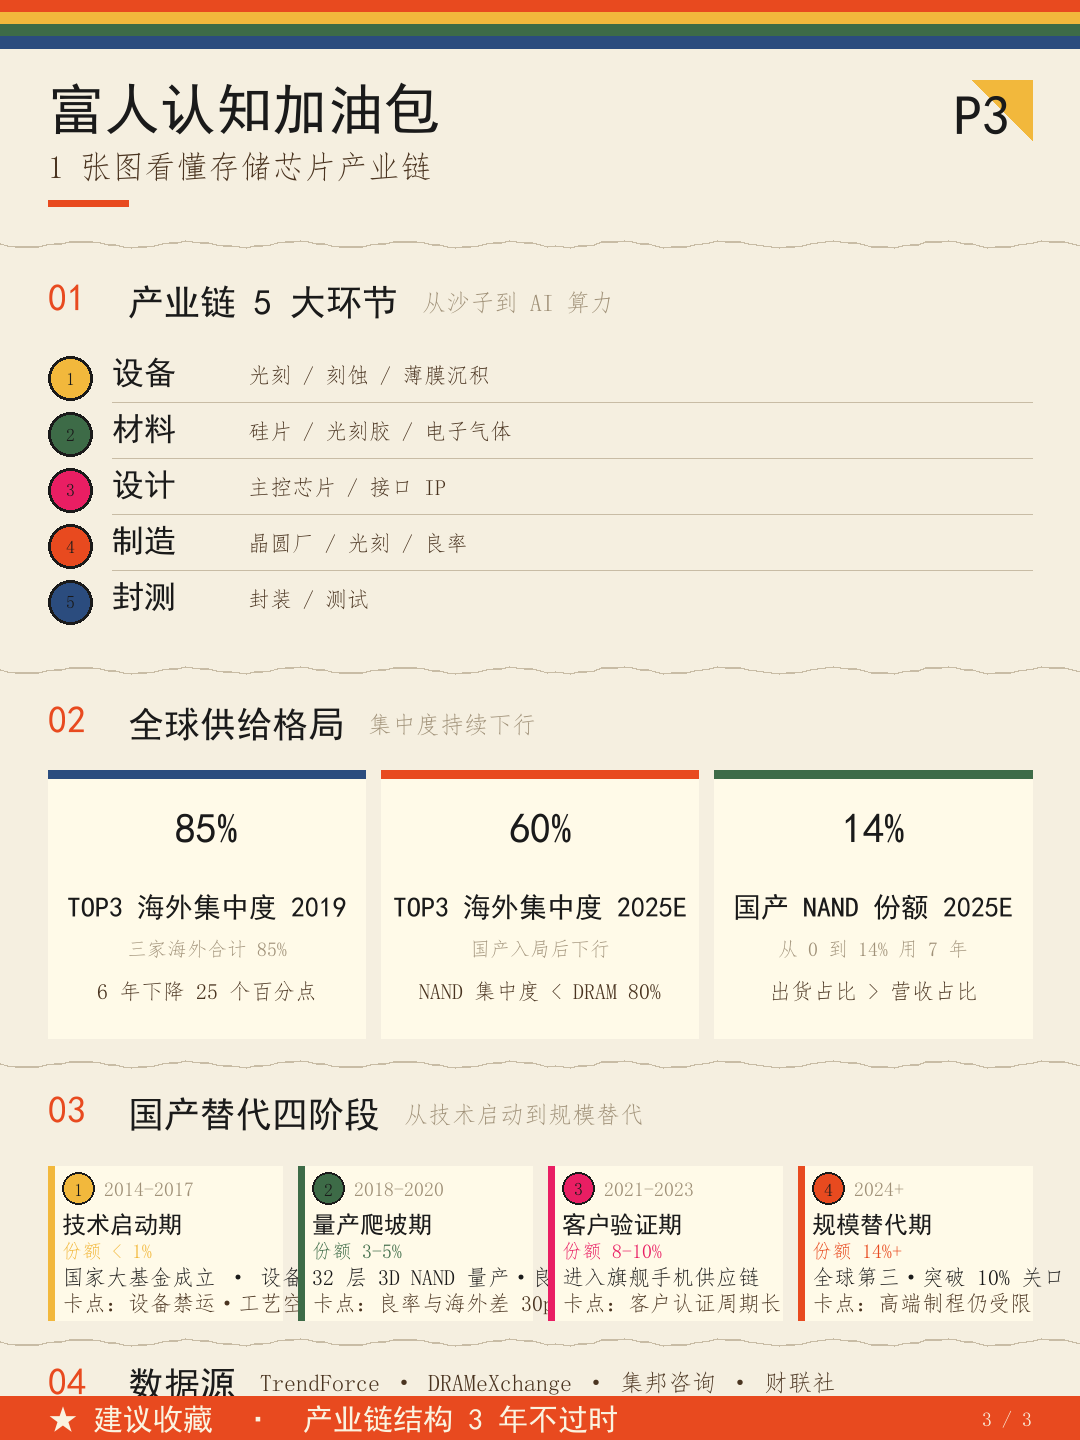
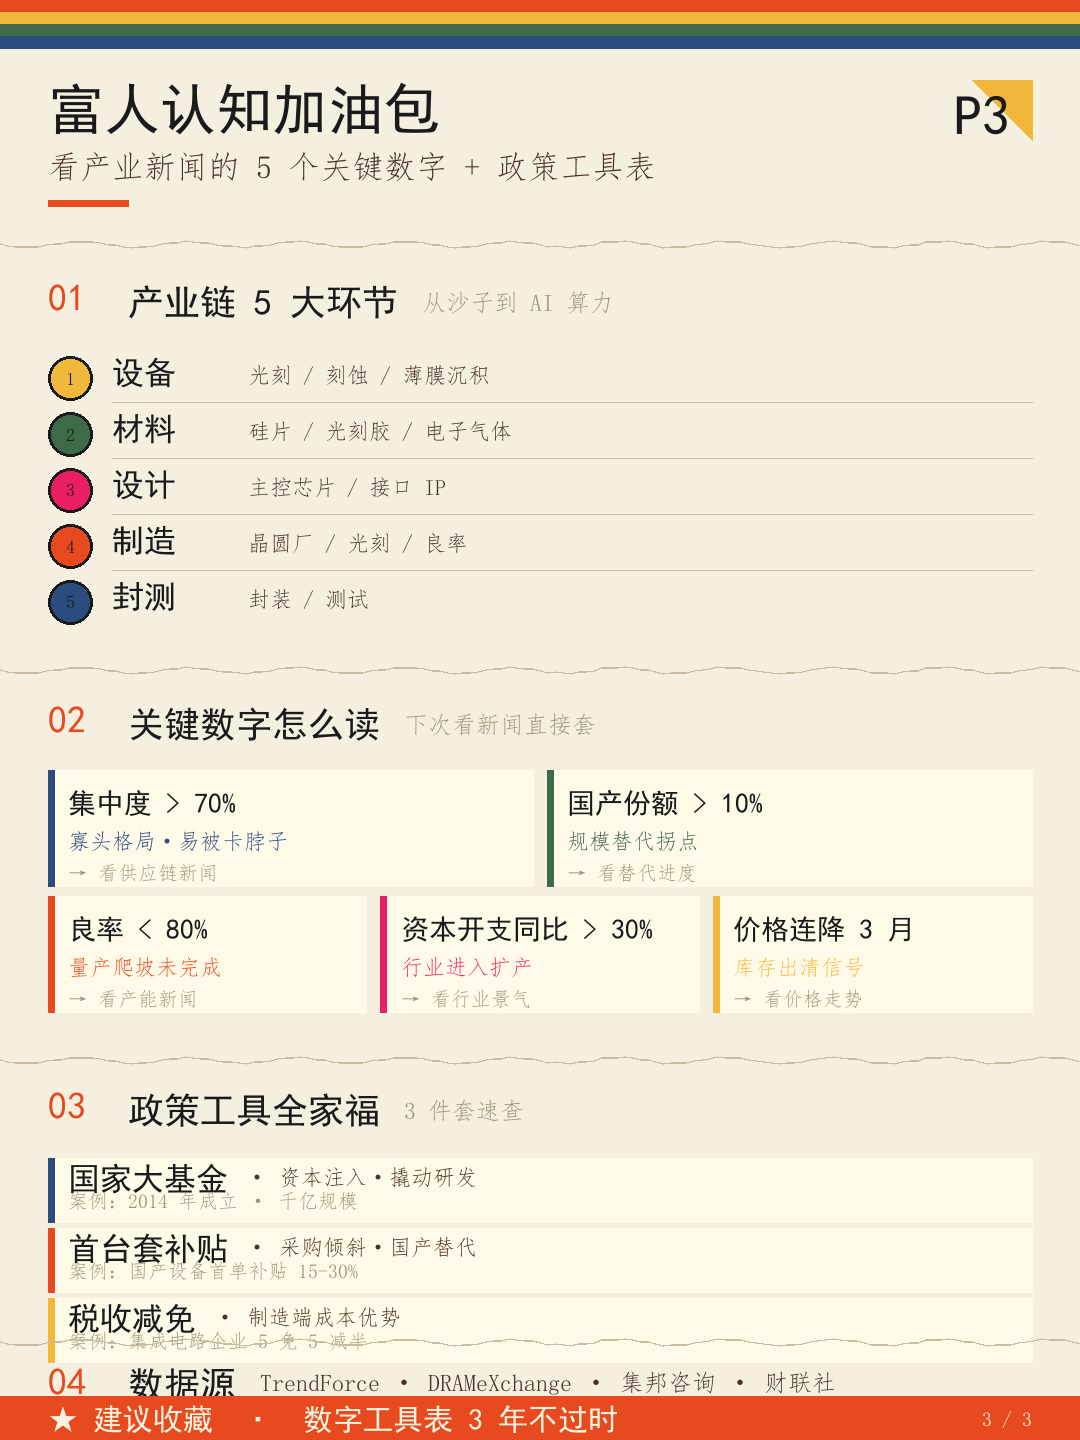
v1.1.2: page3 02/03 换主题→关键数字怎么读+政策工具全家福（工具表型·收藏向）

diff --git a/generate_page3.py b/generate_page3.py
@@ -99,9 +99,9 @@ def make_paper_bg(skeleton_path):
 
 # 顶部标题
 TITLE    = "富人认知加油包"
-SUBTITLE = "1 张图看懂存储芯片产业链"
+SUBTITLE = "看产业新闻的 5 个关键数字 + 政策工具表"
 
-# 01 产业链 5 大环节：编号 + 名称 + 描述 + 筹码颜色
+# 01 产业链/逻辑链 5 大环节（保留·已是干货骨架）
 CHAIN = [
     ("1", "设备", "光刻 / 刻蚀 / 薄膜沉积", YELLOW),
     ("2", "材料", "硅片 / 光刻胶 / 电子气体", GREEN),
@@ -110,37 +110,32 @@ CHAIN = [
     ("5", "封测", "封装 / 测试",             BLUE),
 ]
 
-# 02 全球供给格局：3 张统计卡片（加深：加 详解 + 关键对比）
-# 合规要求：纯市场份额/集中度/应用场景拆分数据，无任何公司名
-SHARE_CARDS = [
-    # (大数字, 单位, 标签, 副说明, 详解, 筹码色)
-    ("85", "%", "TOP3 海外集中度 2019", "三家海外合计 85%",
-     "6 年下降 25 个百分点",          BLUE),
-    ("60", "%", "TOP3 海外集中度 2025E", "国产入局后下行",
-     "NAND 集中度 < DRAM 80%",        RED),
-    ("14", "%", "国产 NAND 份额 2025E", "从 0 到 14% 用 7 年",
-     "出货占比 > 营收占比",           GREEN),
+# 02 关键数字怎么读：5 张速查卡（高于/低于 多少 = 什么信号）
+# 设计：每个数字 = 一句话就能用的判断标尺，下次看到新闻直接套
+# 收藏价值：工具表型·跨场景复用
+SIGNAL_CARDS = [
+    # (判断阈值, 信号含义, 适用场景, 筹码色)
+    ("集中度 > 70%", "寡头格局·易被卡脖子",  "看供应链新闻",     BLUE),
+    ("国产份额 > 10%", "规模替代拐点",        "看替代进度",      GREEN),
+    ("良率 < 80%",   "量产爬坡未完成",        "看产能新闻",       RED),
+    ("资本开支同比 > 30%", "行业进入扩产",   "看行业景气",       PINK),
+    ("价格连降 3 月",  "库存出清信号",        "看价格走势",       YELLOW),
 ]
 
-# 03 国产替代四阶段时间表：每阶段加「国产份额」+「卡点」双行干货
-# 合规要求：行业级数据 + 技术卡点，不点名公司
-TIMELINE = [
-    # (时间段, 阶段名, 国产份额, 关键事件, 阶段卡点, 筹码色)
-    ("2014-2017", "技术启动期", "份额 < 1%",
-     "国家大基金成立 · 设备引进",      "设备禁运·工艺空白",  YELLOW),
-    ("2018-2020", "量产爬坡期", "份额 3-5%",
-     "32 层 3D NAND 量产·良率爬升",    "良率与海外差 30pp",  GREEN),
-    ("2021-2023", "客户验证期", "份额 8-10%",
-     "进入旗舰手机供应链",            "客户认证周期长",     PINK),
-    ("2024+",     "规模替代期", "份额 14%+",
-     "全球第三·突破 10% 关口",        "高端制程仍受限",     RED),
+# 03 政策/产业工具全家福：3 件套（工具 + 用途 + 历史案例）
+# 设计：工具名 + 一句话用途 + 跨主题可换
+TOOL_BOX = [
+    # (工具名, 用途, 案例, 筹码色)
+    ("国家大基金",     "资本注入·撬动研发",  "2014 年成立 · 千亿规模",  BLUE),
+    ("首台套补贴",     "采购倾斜·国产替代",  "国产设备首单补贴 15-30%", RED),
+    ("税收减免",       "制造端成本优势",     "集成电路企业 5 免 5 减半", YELLOW),
 ]
 
 # 04 数据源（一行紧凑文字）
 DATA_SOURCES = "TrendForce · DRAMeXchange · 集邦咨询 · 财联社"
 
 # 底部 CTA
-FOOTER = "★ 建议收藏  ·  产业链结构 3 年不过时"
+FOOTER = "★ 建议收藏  ·  数字工具表 3 年不过时"
 
 # 可选：纸感底纹（None 或路径）
 PAPER_BG = None  # 如要用 AI 骨架底纹，设为 "path/to/page3_skeleton.jpg"
@@ -203,91 +198,83 @@ def main():
     # === 撕纸分隔 2 ===
     torn_line(d, 670, color=GRAY_LT, sw=2)
 
-    # ============ 02 全球供给格局 ============
+    # ============ 02 关键数字怎么读（5 张速查卡） ============
     sec2_y = 700
     d.text((margin, sec2_y), "02", font=SEC_NUM, fill=RED)
-    d.text((margin + 80, sec2_y + 6), "全球供给格局", font=SEC_NAME, fill=INK)
-    d.text((margin + 80 + text_width("全球供给格局", SEC_NAME) + 24, sec2_y + 12),
-           "集中度持续下行", font=SEC_DESC, fill=GRAY)
+    d.text((margin + 80, sec2_y + 6), "关键数字怎么读", font=SEC_NAME, fill=INK)
+    d.text((margin + 80 + text_width("关键数字怎么读", SEC_NAME) + 24, sec2_y + 12),
+           "下次看新闻直接套", font=SEC_DESC, fill=GRAY)
 
-    # 3 张统计卡片（加深：5 行内容）
+    # 5 张速查卡（上 2 下 3 排布，避免横向太挤）
     cx0 = margin
     cx1 = W - margin
     cy0 = 770
-    card_gap = 16
-    n_cards = len(SHARE_CARDS)
-    card_w = (cx1 - cx0 - card_gap * (n_cards - 1)) / n_cards
-    card_h = 268
-    for ci, (big, unit, label, sub, detail, color) in enumerate(SHARE_CARDS):
-        x0 = cx0 + ci * (card_w + card_gap)
-        x1 = x0 + card_w
+    card_gap = 14
+    n_cards = len(SIGNAL_CARDS)
+    # 第一行 2 张，第二行 3 张
+    row1_n = 2
+    row2_n = n_cards - row1_n
+    row1_w = (cx1 - cx0 - card_gap * (row1_n - 1)) / row1_n
+    row2_w = (cx1 - cx0 - card_gap * (row2_n - 1)) / row2_n
+    card_h = 116
+    row_gap = 10
+
+    for i, (threshold, signal, scenario, color) in enumerate(SIGNAL_CARDS):
+        if i < row1_n:
+            x0 = cx0 + i * (row1_w + card_gap)
+            x1 = x0 + row1_w
+            y0 = cy0
+        else:
+            idx = i - row1_n
+            x0 = cx0 + idx * (row2_w + card_gap)
+            x1 = x0 + row2_w
+            y0 = cy0 + card_h + row_gap
+        y1 = y0 + card_h
         # 卡片底
-        d.rectangle([x0, cy0, x1, cy0 + card_h], fill=LIGHT)
-        # 顶部色条
-        d.rectangle([x0, cy0, x1, cy0 + 8], fill=color)
-        # 大数字（hero）+ 单位
-        big_text = big + unit
-        bb = d.textbbox((0, 0), big_text, font=TABLE_HERO)
-        bw = bb[2] - bb[0]
-        bh = bb[3] - bb[1]
-        d.text((x0 + (card_w - bw) / 2, cy0 + 36),
-               big_text, font=TABLE_HERO, fill=INK)
-        # 标签（小标题）
-        bb = d.textbbox((0, 0), label, font=TABLE_LBL)
-        lw = bb[2] - bb[0]
-        d.text((x0 + (card_w - lw) / 2, cy0 + 122),
-               label, font=TABLE_LBL, fill=INK)
-        # 副说明
-        bb = d.textbbox((0, 0), sub, font=PLAYER_SUB)
-        sw = bb[2] - bb[0]
-        d.text((x0 + (card_w - sw) / 2, cy0 + 168),
-               sub, font=PLAYER_SUB, fill=GRAY)
-        # 详解（最后一层干货）
-        bb = d.textbbox((0, 0), detail, font=ROW_BODY)
-        dw = bb[2] - bb[0]
-        d.text((x0 + (card_w - dw) / 2, cy0 + 210),
-               detail, font=ROW_BODY, fill=INK_SOFT)
+        d.rectangle([x0, y0, x1, y1], fill=LIGHT)
+        # 左侧色条
+        d.rectangle([x0, y0, x0 + 6, y1], fill=color)
+        # 阈值（大字 hero·黑体）
+        bb = d.textbbox((0, 0), threshold, font=TABLE_LBL)
+        tw = bb[2] - bb[0]
+        d.text((x0 + 20, y0 + 18), threshold, font=TABLE_LBL, fill=INK)
+        # 信号含义（中等字·筹码色）
+        bb = d.textbbox((0, 0), signal, font=ROW_BODY)
+        sw_ = bb[2] - bb[0]
+        d.text((x0 + 20, y0 + 60), signal, font=ROW_BODY, fill=color)
+        # 适用场景（小灰字）
+        d.text((x0 + 20, y0 + 92), "→ " + scenario, font=PLAYER_SUB, fill=GRAY)
 
     # === 撕纸分隔 3 ===
-    torn_line(d, 1064, color=GRAY_LT, sw=2)
+    torn_line(d, 1060, color=GRAY_LT, sw=2)
 
-    # ============ 03 国产替代四阶段时间表 ============
-    sec3_y = 1090
+    # ============ 03 政策/产业工具全家福 ============
+    sec3_y = 1086
     d.text((margin, sec3_y), "03", font=SEC_NUM, fill=RED)
-    d.text((margin + 80, sec3_y + 6), "国产替代四阶段", font=SEC_NAME, fill=INK)
-    d.text((margin + 80 + text_width("国产替代四阶段", SEC_NAME) + 24, sec3_y + 12),
-           "从技术启动到规模替代", font=SEC_DESC, fill=GRAY)
+    d.text((margin + 80, sec3_y + 6), "政策工具全家福", font=SEC_NAME, fill=INK)
+    d.text((margin + 80 + text_width("政策工具全家福", SEC_NAME) + 24, sec3_y + 12),
+           "3 件套速查", font=SEC_DESC, fill=GRAY)
 
-    # 4 段时间轴（每阶段 6 行干货：阶段名 + 份额 + 事件 + 卡点）
-    tl_y0 = 1166
-    tl_h = 154
-    n_tl = len(TIMELINE)
-    tl_card_w = (W - margin * 2 - card_gap * (n_tl - 1)) / n_tl
-    for ti, (period, phase, share, event, chokepoint, color) in enumerate(TIMELINE):
-        tx0 = margin + ti * (tl_card_w + card_gap)
-        tx1 = tx0 + tl_card_w
-        # 卡片底
-        d.rectangle([tx0, tl_y0, tx1, tl_y0 + tl_h], fill=LIGHT)
+    # 3 件工具箱（3 行堆叠·文字主导）
+    tl_y0 = 1158
+    tl_row_h = 70
+    n_tl = len(TOOL_BOX)
+    tl_w = W - margin * 2
+    for ti, (tool, use, history, color) in enumerate(TOOL_BOX):
+        ty = tl_y0 + ti * tl_row_h
+        # 行底（极浅）
+        d.rectangle([margin, ty, margin + tl_w, ty + tl_row_h - 6], fill=LIGHT)
         # 左侧色条
-        d.rectangle([tx0, tl_y0, tx0 + 6, tl_y0 + tl_h], fill=color)
-        # 阶段编号（顶部圆形）
-        phase_num = str(ti + 1)
-        chip(d, tx0 + 30, tl_y0 + 22, 16, color, outline=INK, sw=2)
-        nb = d.textbbox((0, 0), phase_num, font=TABLE_MARK)
-        nw, nh = nb[2] - nb[0], nb[3] - nb[1]
-        d.text((tx0 + 30 - nw // 2, tl_y0 + 22 - nh // 2 - 2),
-               phase_num, font=TABLE_MARK, fill=INK)
-        # 时间段（小灰字）
-        d.text((tx0 + 56, tl_y0 + 12), period, font=PLAYER_SUB, fill=GRAY)
-        # 阶段名 + 份额（黑体）
-        d.text((tx0 + 14, tl_y0 + 46), phase, font=TIER_NAME, fill=INK)
-        # 国产份额（小字、筹码色）
-        d.text((tx0 + 14, tl_y0 + 74), share, font=PLAYER_SUB, fill=color)
-        # 关键事件
-        d.text((tx0 + 14, tl_y0 + 100), event, font=ROW_BODY, fill=INK)
-        # 阶段卡点（最后一层）
-        d.text((tx0 + 14, tl_y0 + 126), "卡点：" + chokepoint,
-               font=ROW_BODY, fill=INK_SOFT)
+        d.rectangle([margin, ty, margin + 6, ty + tl_row_h - 6], fill=color)
+        # 工具名（黑体加粗）
+        d.text((margin + 20, ty + 4), tool, font=ROW_NAME, fill=INK)
+        # 用途（中等字·同行右侧）
+        bb = d.textbbox((0, 0), tool, font=ROW_NAME)
+        tw = bb[2] - bb[0]
+        d.text((margin + 20 + tw + 18, ty + 8), "· " + use, font=ROW_BODY, fill=INK_SOFT)
+        # 历史案例（小灰字·下一行）
+        d.text((margin + 20, ty + 32), "案例：" + history,
+               font=PLAYER_SUB, fill=GRAY)
 
     # === 撕纸分隔 4 ===
     torn_line(d, 1342, color=GRAY_LT, sw=2)

diff --git a/README.md b/README.md
@@ -33,7 +33,7 @@ python generate_page3.py  # 出 page3.png (认知加油包)
 ### v1/v2 与 page3 的区别
 
 - **v1 / v2**：纯模板，复制到任意目录就能跑（`BASE_DIR = __file__` 通用路径）。改顶部 `NEWS` 列表即可。
-- **page3**：含更多内容变量（CHAIN / TABLE_DATA / TIERS / DATA_SOURCES / FOOTER），推荐 `cp` 到项目目录后改顶部内容常量 + `BASE_DIR` 为目标路径。
+- **page3**：含更多内容变量（CHAIN / SIGNAL_CARDS / TOOL_BOX / DATA_SOURCES / FOOTER），推荐 `cp` 到项目目录后改顶部内容常量 + `BASE_DIR` 为目标路径。
 
 ## 四条铁律（红线）
 
@@ -70,10 +70,10 @@ python generate_page3.py  # 出 page3.png (认知加油包)
 | **产业地图** | 涉及区域/集群 | 大湾区外贸 → 9 市外贸排名与产业分工 |
 | **工具/政策拆解** | 涉及工具/政策 | 隔夜逆回购 → 央行短端工具全家福 |
 
-**4 段标准结构**（合规版·不点名公司）：
+**4 段标准结构**（工具表型·不点名公司·收藏向）：
 1. **01 产业链/逻辑链** — 5 个环节，文字行 + 小编号
-2. **02 全球供给格局** — 3 张统计卡，集中度/份额演变，数字 hero
-3. **03 国产替代时间表** — 4 段时间轴，行业里程碑，不点名公司
+2. **02 关键数字怎么读** — 5 张速查卡，阈值+信号+场景，一眼即用
+3. **03 政策工具全家福** — 3 件套速查，工具名+用途+历史案例
 4. **04 数据源** — 4 个权威数据出处
 
 ## 文件结构
